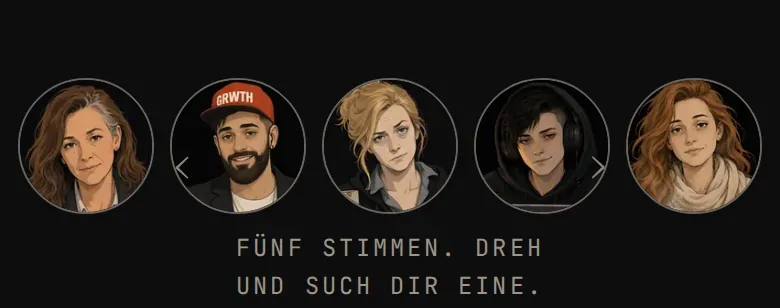
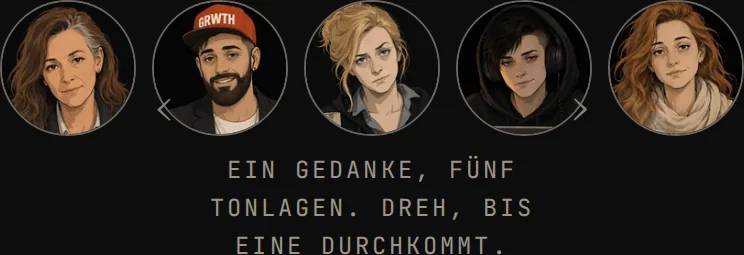
exp mant

diff --git a/apps/mantrify/index.html b/apps/mantrify/index.html
@@ -697,7 +697,7 @@ der Würfel und das Teilen brauchen Skripte.</div></noscript>
         </button>
         <div class="ensemble" id="ensemble" hidden>
           <div class="ens-reihe" id="ensReihe"></div>
-          <span class="wer">Fünf Stimmen. Dreh und such dir eine.</span>
+          <span class="wer">Ein Gedanke, fünf Tonlagen. Dreh, bis eine durchkommt.</span>
         </div>
       </div>
       <button class="arw" id="fnext" type="button" aria-label="Nächste Seite">&#8250;</button>
